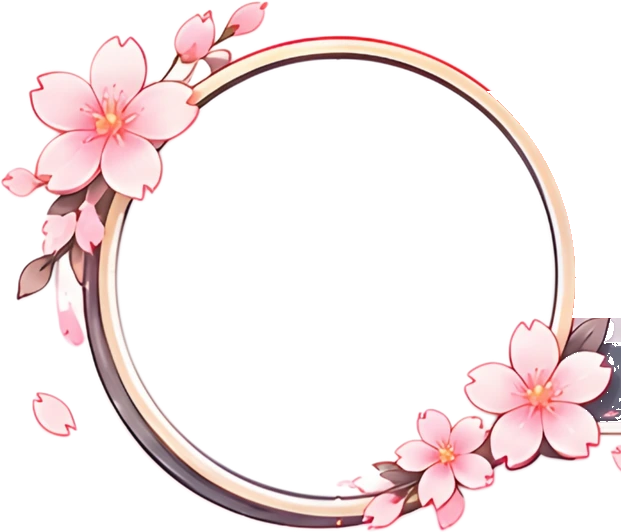
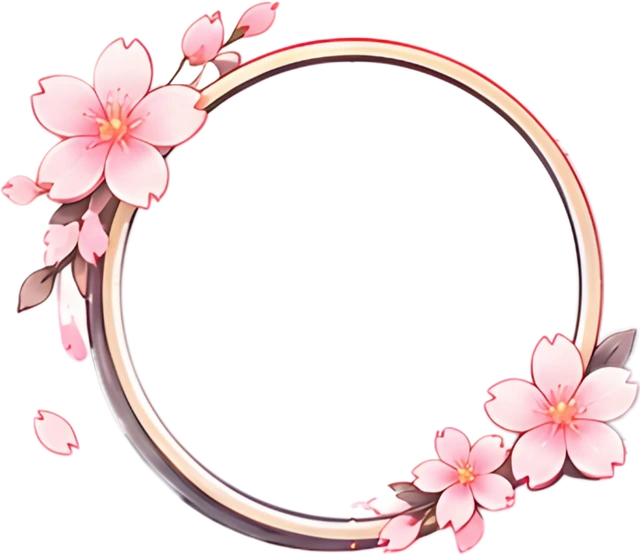
กรอบรูปโปรไฟล์ใช้รูปแยกที่เจ้าของทำให้ (av-frame.webp 640×555) + ตำแหน่งวงรูปใหม่
Claude-Session: https://claude.ai/code/session_0124HQP4eZq7yjzWuXJC1MPB

diff --git a/client/public/Code/AvatarFrame/avatar-frame.js b/client/public/Code/AvatarFrame/avatar-frame.js
@@ -10,7 +10,7 @@
     id: 'sakura',
     name: 'ซากุระ',
     asset: './Assets/UI/Assets/kit3/av-frame.webp',
-    circle: { cx: 335, cy: 277, r: 218, w: 621, h: 532 },
+    circle: { cx: 349, cy: 289, r: 228, w: 640, h: 555 },
   };
   let frames = [FALLBACK];
   let defaultId = FALLBACK.id;
